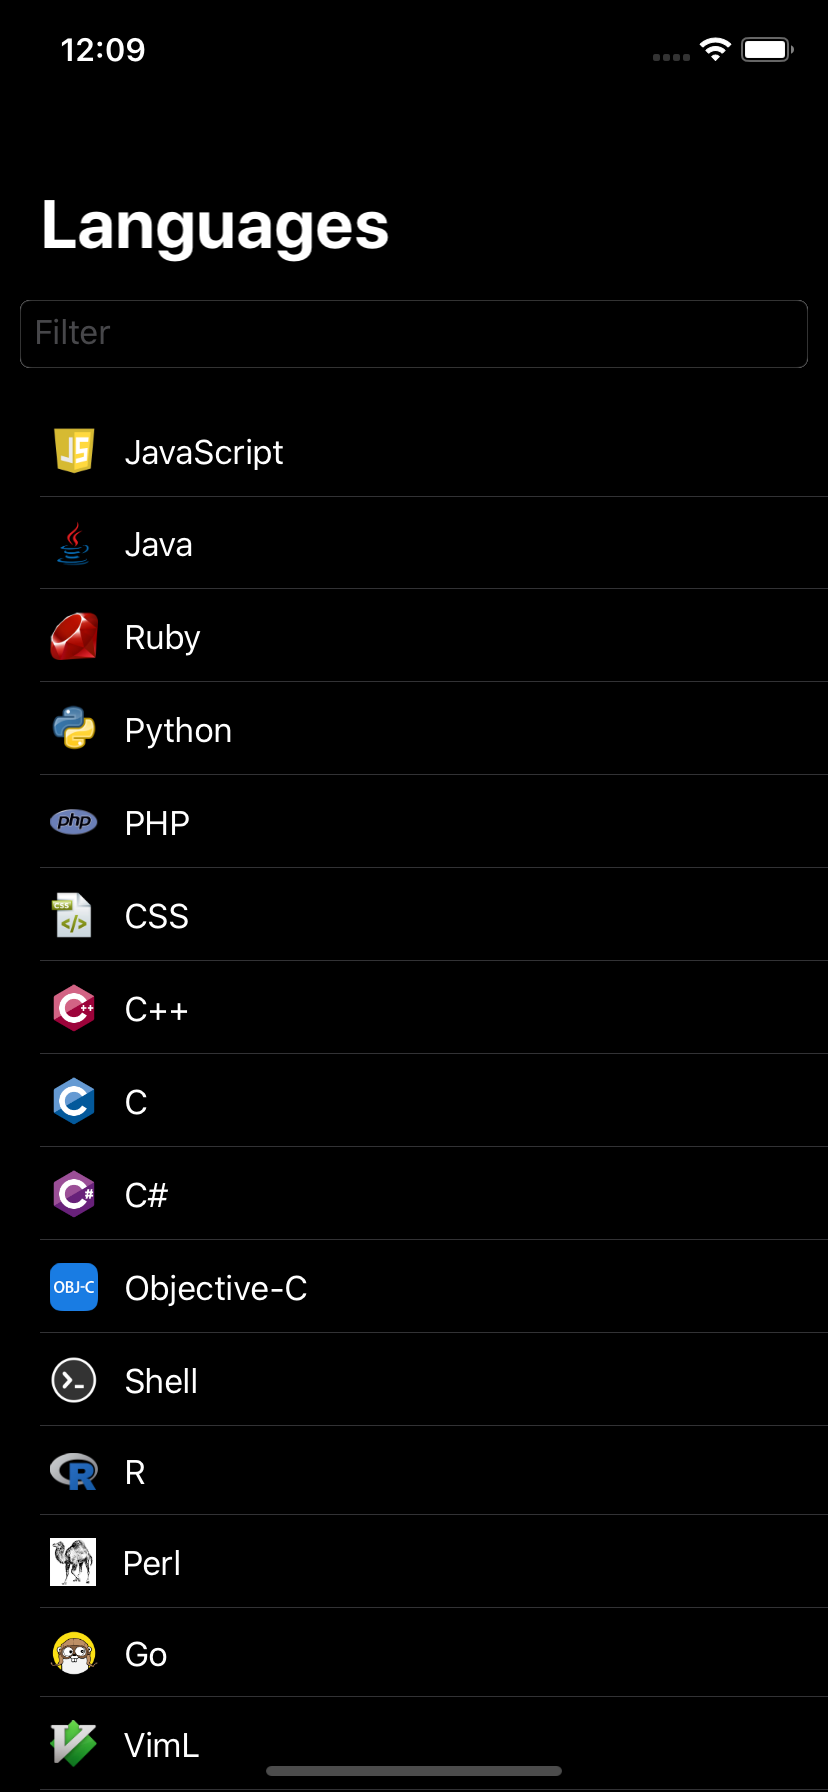
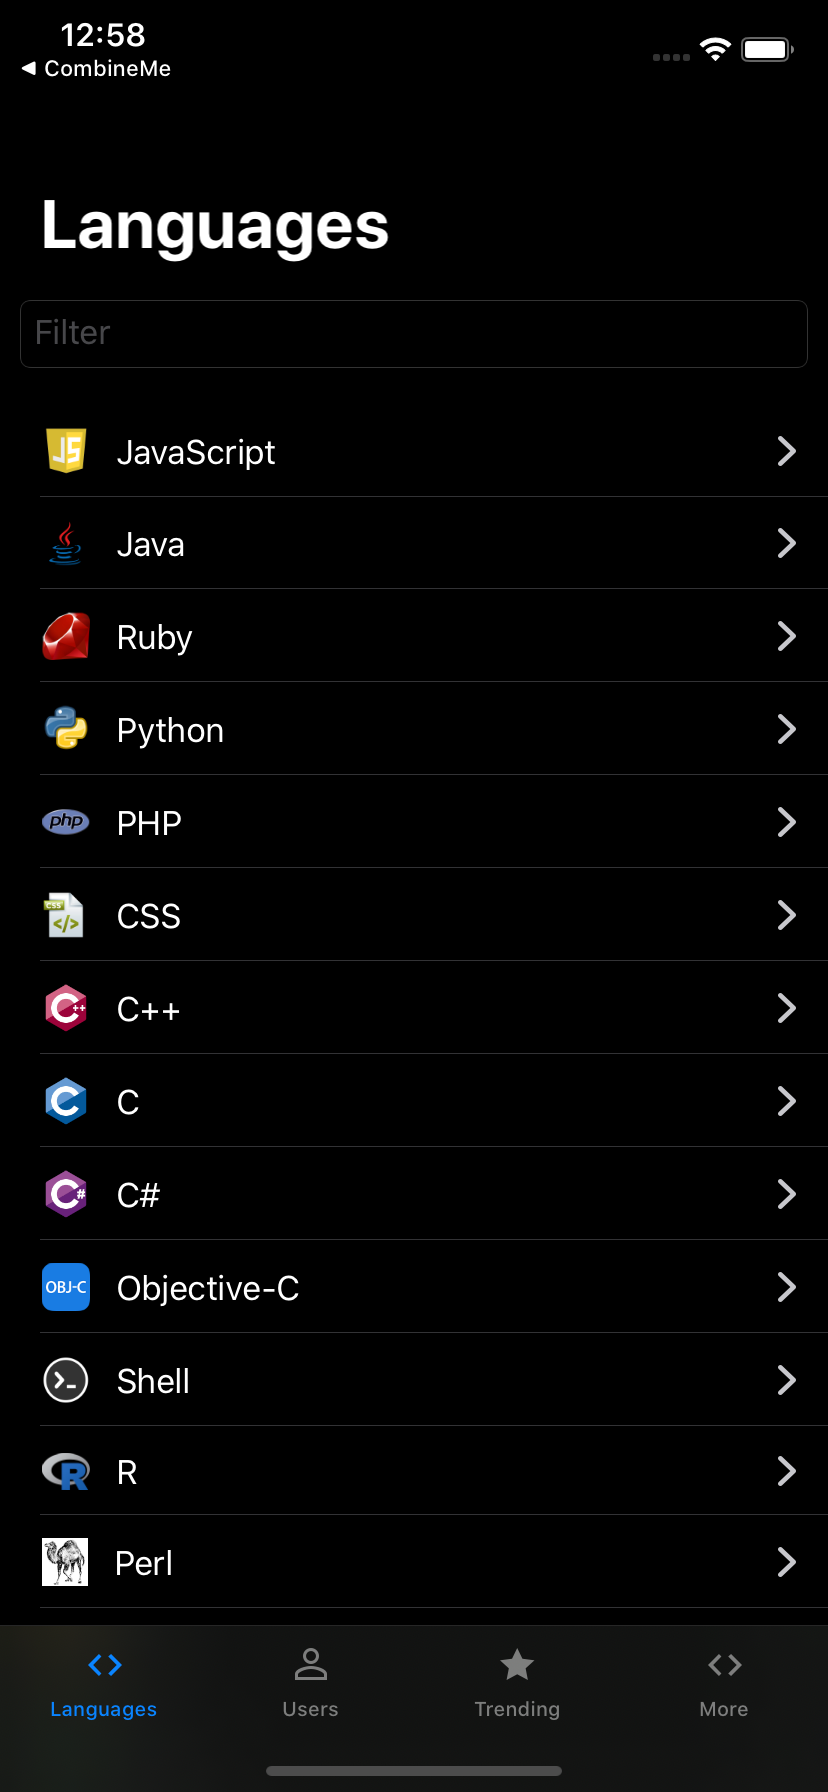
Adds root TabBar and adds macOS (Catalyst) support

diff --git a/ModernOctopodium/Contexts/Home/HomeView.swift b/ModernOctopodium/Contexts/Home/HomeView.swift
@@ -1,0 +1,73 @@
+//
+//  HomeView.swift
+//  ModernOctopodium
+//
+//  Created by Nuno Gonçalves on 31/08/2019.
+//  Copyright © 2019 numicago. All rights reserved.
+//
+
+import SwiftUI
+import UIKit
+
+enum Tab: Int {
+    case languages, users, trending, settings
+
+    private var tabInfo: (text: String, image: UIImage) {
+        switch self {
+        case .languages: return (text: "Languages", image: #imageLiteral(resourceName: "Language"))
+        case .users: return (text: "Users", image: #imageLiteral(resourceName: "UserActive"))
+        case .trending: return (text: "Trending", image: #imageLiteral(resourceName: "Star"))
+        case .settings: return (text: "More", image: UIImage(systemName: "ellipsis")!)
+        }
+    }
+
+    var item: some View {
+        let info = tabInfo
+        return VStack {
+            Image(uiImage: info.image)
+                .imageScale(.large)
+            Text(info.text)
+        }
+    }
+}
+
+struct HomeView: View {
+
+    @State var selectedTab = Tab.languages
+
+    var body: some View {
+        TabView(selection: $selectedTab) {
+            LanguagesView(viewModel: LanguagesViewModel()).tabbed(with: .languages)
+            UsersView().tabbed(with: .users)
+            TrendingView().tabbed(with: .trending)
+            SettingsView().tabbed(with: .settings)
+        }
+        .edgesIgnoringSafeArea(.top)
+    }
+}
+
+private protocol ContainedInTab {
+    associatedtype V: View
+    func tabbed(with info: Tab) -> V
+}
+
+extension ContainedInTab where Self: View {
+    func tabbed(with info: Tab) -> some View {
+        self.tabItem { info.item }
+            .tag(info)
+    }
+}
+
+extension LanguagesView: ContainedInTab {}
+extension UsersView: ContainedInTab {}
+extension TrendingView: ContainedInTab {}
+extension SettingsView: ContainedInTab {}
+
+#if DEBUG
+struct HomeView_Previews: PreviewProvider {
+    static var previews: some View {
+        HomeView()
+            .preferredColorScheme(.dark)
+    }
+}
+#endif

diff --git a/ModernOctopodium/SceneDelegate.swift b/ModernOctopodium/SceneDelegate.swift
@@ -15,11 +15,11 @@ class SceneDelegate: UIResponder, UIWindowSceneDelegate {
 
     func scene(_ scene: UIScene, willConnectTo session: UISceneSession, options connectionOptions: UIScene.ConnectionOptions) {
 
-        let languagesView = LanguagesView(viewModel: LanguagesViewModel())
+        let home = HomeView()
 
         if let windowScene = scene as? UIWindowScene {
             let window = UIWindow(windowScene: windowScene)
-            window.rootViewController = UIHostingController(rootView: languagesView)
+            window.rootViewController = UIHostingController(rootView: home)
             self.window = window
             window.makeKeyAndVisible()
         }

diff --git a/ModernOctopodium/Contexts/Settings/SettingsView.swift b/ModernOctopodium/Contexts/Settings/SettingsView.swift
@@ -1,0 +1,21 @@
+//
+//  SettingsView.swift
+//  ModernOctopodium
+//
+//  Created by Nuno Gonçalves on 31/08/2019.
+//  Copyright © 2019 numicago. All rights reserved.
+//
+
+import SwiftUI
+
+struct SettingsView: View {
+    var body: some View {
+        Text("Hello Settings")
+    }
+}
+
+struct SettingsView_Previews: PreviewProvider {
+    static var previews: some View {
+        SettingsView()
+    }
+}

diff --git a/ModernOctopodium/Contexts/Trending/TrendingView.swift b/ModernOctopodium/Contexts/Trending/TrendingView.swift
@@ -1,0 +1,21 @@
+//
+//  TrendingView.swift
+//  ModernOctopodium
+//
+//  Created by Nuno Gonçalves on 31/08/2019.
+//  Copyright © 2019 numicago. All rights reserved.
+//
+
+import SwiftUI
+
+struct TrendingView: View {
+    var body: some View {
+        Text("Hello Trending")
+    }
+}
+
+struct TrendingView_Previews: PreviewProvider {
+    static var previews: some View {
+        TrendingView()
+    }
+}

diff --git a/ModernOctopodium/Contexts/Users/UsersView.swift b/ModernOctopodium/Contexts/Users/UsersView.swift
@@ -1,0 +1,21 @@
+//
+//  UsersView.swift
+//  ModernOctopodium
+//
+//  Created by Nuno Gonçalves on 31/08/2019.
+//  Copyright © 2019 numicago. All rights reserved.
+//
+
+import SwiftUI
+
+struct UsersView: View {
+    var body: some View {
+        Text("Hello Users")
+    }
+}
+
+struct UsersView_Previews: PreviewProvider {
+    static var previews: some View {
+        UsersView()
+    }
+}

diff --git a/README.md b/README.md
@@ -1,4 +1,4 @@
 # ModernOctopodium
 My SwiftUI/Combine learning process through migrating [Octopodium app](https://github.com/nunogoncalves/iOS-OctoPodium).
 
-<img src="ReadMeImages/LanguagesList.png" width="150px"> <img src="ReadMeImages/LanguagesListFiltered.png" width="150px"> <img src="ReadMeImages/SwiftRankingWorld.png" width="150px">
+<img src="ReadMeImages/LanguagesList.png" width="200px"> <img src="ReadMeImages/LanguagesListFiltered.png" width="200px"> <img src="ReadMeImages/SwiftRankingWorld.png" width="200px">
